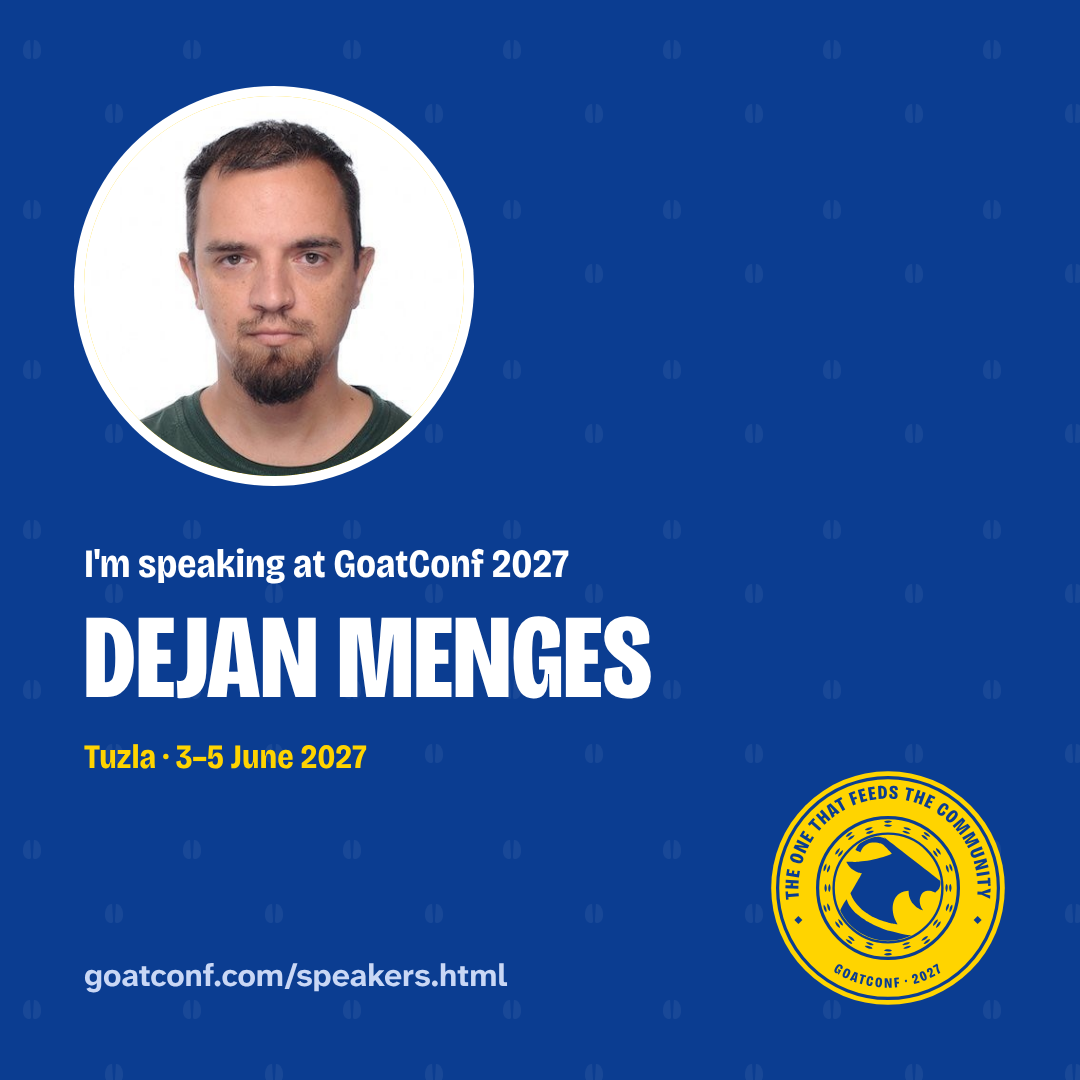
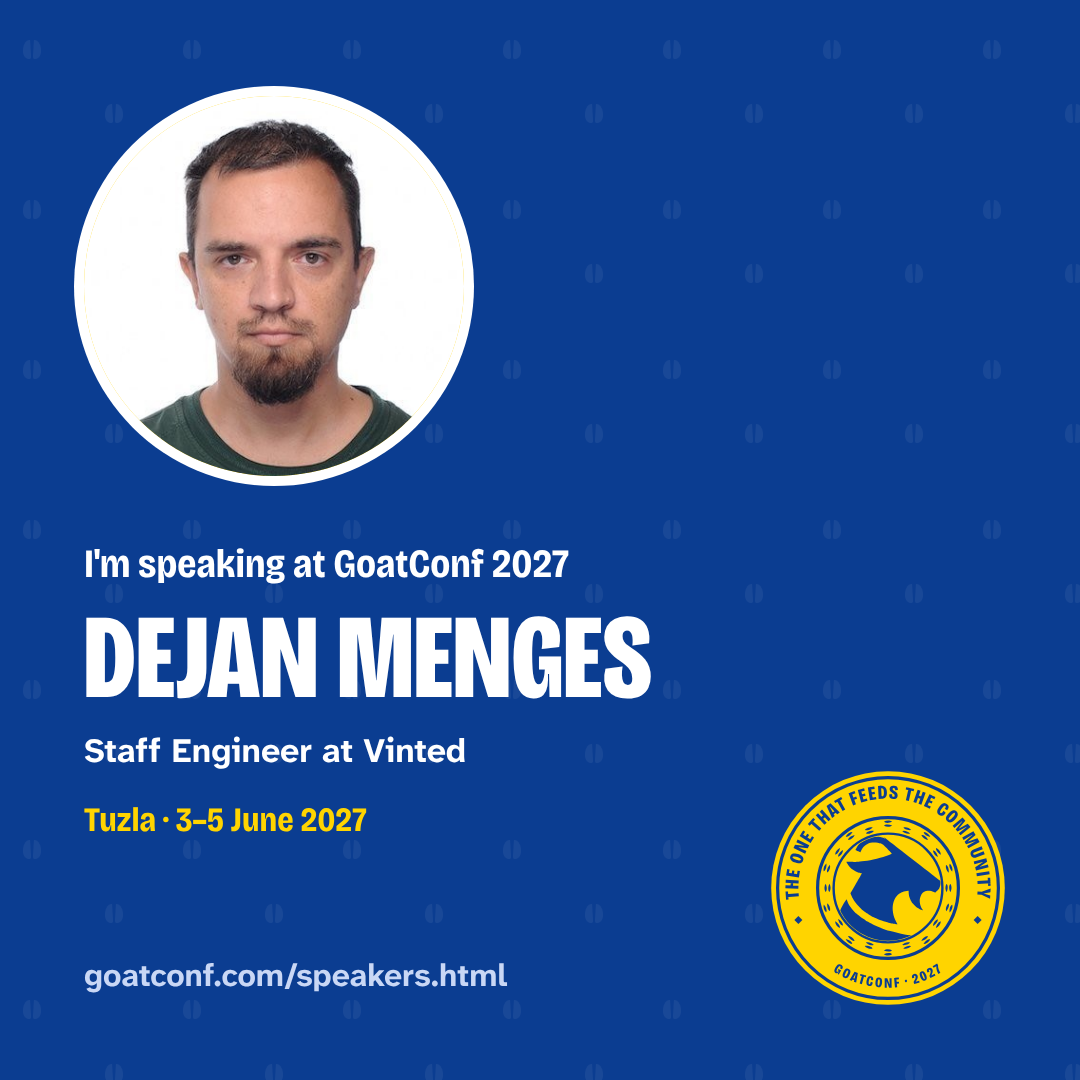
site: a speaker's role and employer show wherever their name does
The organiser asked whether the promo cards and the site show where a
speaker works and in what role. They did not. Speaker records now take
an optional one-line `role` (for example "Staff Engineer at Vinted"),
shown on the speaker's own page and its description, the speakers page
cards, the home page stickers, the "I'm speaking" cards, llms.txt, and
as jobTitle in the event data once the speaker has a session. Text
only: no employer logo, so an employer never reads as a supporter.

Dejan Menges's record gets his role from menges.dev, and his cards are
re-rendered.

Source: files/sources/conversations/2026-10-14--org--speaker-role-and-employer.md

Changed region(s): [[0.0611, 0.6722, 0.4278, 0.7944]]

diff --git a/files/site/index.html b/files/site/index.html
@@ -22,7 +22,7 @@
 <meta property="og:image:alt" content="GoatConf 2027, Tuzla, 3–5 June 2027, free. The GoatConf seal: the one that feeds the community.">
 <meta name="twitter:card" content="summary_large_image">
 <!-- /link preview -->
-<link rel="stylesheet" href="goatconf.css?v=c829bb0a">
+<link rel="stylesheet" href="goatconf.css?v=6c3f4502">
 <script>if(!matchMedia("(prefers-reduced-motion: reduce)").matches&&"IntersectionObserver"in window)document.documentElement.classList.add("js-peel")</script>
 <!-- event data -->
 <script type="application/ld+json">{"@context":"https://schema.org","@type":"Event","name":"GoatConf 2027","url":"https://goatconf.com/","description":"A free conference for people who build and sell software: engineers, designers, product people, founders, and the incurably curious dreamers and visionaries. Any programming language, any stack. An excuse to hang out with like-minded people and learn from folks sharing their current best. In Tuzla, Bosnia and Herzegovina, on 3–5 June 2027. One-hour talks, panels and workshops in every room of IPI Academy, then a day for the community.","startDate":"2027-06-03T09:45:00+02:00","endDate":"2027-06-05","eventStatus":"https://schema.org/EventScheduled","eventAttendanceMode":"https://schema.org/OfflineEventAttendanceMode","isAccessibleForFree":true,"image":["https://goatconf.com/share/og.png"],"location":{"@type":"Place","name":"IPI Academy (IPI Akademija Tuzla)","address":{"@type":"PostalAddress","streetAddress":"Kulina bana 2","postalCode":"75000","addressLocality":"Tuzla","addressCountry":"BA"},"geo":{"@type":"GeoCoordinates","latitude":44.5404,"longitude":18.6738}},"organizer":{"@type":"Person","name":"Muhamed Isabegović","url":"https://muhamed.at","email":"info@muhamed.at"},"offers":{"@type":"Offer","price":0,"priceCurrency":"EUR","availability":"https://schema.org/InStock","url":"https://luma.com/event/evt-dU4KbLhpIAm9Y9V"}}</script>
@@ -157,7 +157,7 @@
   <h2 class="band" id="speakers-title">Who is speaking</h2>
   <p class="copy copy--wide">The people giving the talks, panels and workshops so far. More are added as proposals are accepted.</p>
   <ul class="slots slots--mini">
-    <li><a class="sticker sticker--photo sticker--mini" href="speaker-dejan-menges.html" data-peel style="--tilt:-1.5deg"><span class="num">14</span><img src="img/speakers/dejan-menges.jpg" alt="" loading="lazy"><span class="sticker__name">Dejan Menges</span></a></li>
+    <li><a class="sticker sticker--photo sticker--mini" href="speaker-dejan-menges.html" data-peel style="--tilt:-1.5deg"><span class="num">14</span><img src="img/speakers/dejan-menges.jpg" alt="" loading="lazy"><span class="sticker__name">Dejan Menges<small class="sticker__role">Staff Engineer at Vinted</small></span></a></li>
   </ul>
   <p class="copy"><a class="go go--ink" href="speakers.html">Meet the speakers</a></p>
 </section>

diff --git a/files/site/speaker-dejan-menges.html b/files/site/speaker-dejan-menges.html
@@ -4,7 +4,7 @@
 <meta charset="utf-8">
 <meta name="viewport" content="width=device-width, initial-scale=1">
 <title>Dejan Menges: speaking at GoatConf 2027, Tuzla</title>
-<meta name="description" content="Dejan Menges speaks at GoatConf 2027 in Tuzla, 3–5 June 2027: a session at IPI Academy.">
+<meta name="description" content="Dejan Menges (Staff Engineer at Vinted) speaks at GoatConf 2027 in Tuzla, 3–5 June 2027: a session at IPI Academy.">
 <meta name="theme-color" content="#0b3d91">
 <link rel="canonical" href="https://goatconf.com/speaker-dejan-menges">
 <link rel="icon" href="favicon.svg" type="image/svg+xml">
@@ -13,7 +13,7 @@
 <meta property="og:type" content="website">
 <meta property="og:site_name" content="GoatConf">
 <meta property="og:title" content="Dejan Menges: speaking at GoatConf 2027, Tuzla">
-<meta property="og:description" content="Dejan Menges speaks at GoatConf 2027 in Tuzla, 3–5 June 2027: a session at IPI Academy.">
+<meta property="og:description" content="Dejan Menges (Staff Engineer at Vinted) speaks at GoatConf 2027 in Tuzla, 3–5 June 2027: a session at IPI Academy.">
 <meta property="og:url" content="https://goatconf.com/speaker-dejan-menges">
 <meta property="og:image" content="https://goatconf.com/share/og.png">
 <meta property="og:image:width" content="1200">
@@ -21,7 +21,7 @@
 <meta property="og:image:alt" content="GoatConf 2027, Tuzla, 3–5 June 2027, free. The GoatConf seal: the one that feeds the community.">
 <meta name="twitter:card" content="summary_large_image">
 <!-- /link preview -->
-<link rel="stylesheet" href="goatconf.css?v=c829bb0a">
+<link rel="stylesheet" href="goatconf.css?v=6c3f4502">
 <script>if(!matchMedia("(prefers-reduced-motion: reduce)").matches&&"IntersectionObserver"in window)document.documentElement.classList.add("js-peel")</script>
 </head>
 <body>
@@ -58,7 +58,7 @@
 <header class="page-head">
   <img class="page-head__photo page-head__photo--portrait" src="img/speakers/dejan-menges.jpg" width="800" height="800" alt="Dejan Menges" decoding="async">
   <h1 class="sign">Dejan Menges</h1>
-  <p class="lede">Speaking at GoatConf 2027 in Tuzla.</p>
+  <p class="lede"><span class="lede__role">Staff Engineer at Vinted</span>Speaking at GoatConf 2027 in Tuzla.</p>
 </header>
 <main id="main">
 <section class="album-page wrap speaker-page" aria-labelledby="h-about">

diff --git a/files/site/goatconf.css b/files/site/goatconf.css
@@ -362,6 +362,7 @@ main.prose .cta:last-child { margin: 2.4rem 0 0; }
 .sticker--mini { display: block; text-decoration: none; }
 .sticker--mini img, .sticker--mini .speaker__goat { aspect-ratio: 1; width: 100%; object-fit: cover; border-radius: 0.35rem 0.35rem 0 0; }
 .sticker__name { display: block; padding: 0.45rem 0.6rem 0.5rem; border-radius: 0 0 0.35rem 0.35rem; background: var(--album); color: var(--page); font-family: var(--display); font-weight: 800; font-stretch: 80%; text-transform: uppercase; font-size: 1.05rem; line-height: 1; }
+.sticker__role { display: block; margin-top: 0.3rem; font-family: var(--text); font-weight: 600; font-stretch: 100%; text-transform: none; font-size: 0.78rem; line-height: 1.25; opacity: 0.9; }
 .money-supporters { margin-top: 2.2rem; }
 .slots--supporters-home { grid-template-columns: repeat(auto-fill, minmax(min(100%, 12rem), 1fr)); list-style: none; margin-bottom: 1.2rem; }
 .supporter-chip { display: grid; gap: 0.5rem; padding: 0.9rem; border-radius: 0.6rem; background: var(--page-print); text-decoration: none; color: var(--ink-soft); }
@@ -438,6 +439,8 @@ main.prose .cta:last-child { margin: 2.4rem 0 0; }
 .speaker__link { display: flex; flex-direction: column; gap: 0.5rem; height: 100%; text-decoration: none; color: var(--ink); }
 .speaker__link:hover .speaker__photo figcaption, .speaker__link:focus-visible .speaker__photo figcaption { background: var(--album-night); }
 .speaker__first { display: block; font-size: 0.88rem; line-height: 1.35; color: var(--ink); }
+.speaker__role { display: block; margin-bottom: 0.2rem; font-size: 0.85rem; font-weight: 700; line-height: 1.3; color: var(--ink-soft); }
+.lede__role { display: block; margin-bottom: 0.35rem; color: var(--page); }
 .speaker__more { display: block; margin-top: 0.15rem; font-size: 0.8rem; color: var(--ink-soft); }
 .speaker__link .speaker__travel { display: flex; align-items: center; gap: 0.45rem; margin-top: 0.4rem; font-size: 0.8rem; color: var(--ink-soft); }
 .speaker__link .speaker__travel img { width: 2.6rem; height: 1.6rem; object-fit: contain; }

diff --git a/files/site/speakers.html b/files/site/speakers.html
@@ -21,7 +21,7 @@
 <meta property="og:image:alt" content="GoatConf 2027, Tuzla, 3–5 June 2027, free. The GoatConf seal: the one that feeds the community.">
 <meta name="twitter:card" content="summary_large_image">
 <!-- /link preview -->
-<link rel="stylesheet" href="goatconf.css?v=c829bb0a">
+<link rel="stylesheet" href="goatconf.css?v=6c3f4502">
 <script>if(!matchMedia("(prefers-reduced-motion: reduce)").matches&&"IntersectionObserver"in window)document.documentElement.classList.add("js-peel")</script>
 </head>
 <body>
@@ -69,7 +69,7 @@
     <a class="speaker__link" href="speaker-dejan-menges.html">
     <span class="num">1</span>
     <figure class="speaker__photo"><img src="img/speakers/dejan-menges.jpg" alt="" loading="lazy"><figcaption>Dejan Menges</figcaption></figure>
-    <span class="speaker__body"></span>
+    <span class="speaker__body"><span class="speaker__role">Staff Engineer at Vinted</span></span>
     </a>
   </li>
 </ul>

diff --git a/files/site/program.html b/files/site/program.html
@@ -21,7 +21,7 @@
 <meta property="og:image:alt" content="GoatConf 2027, Tuzla, 3–5 June 2027, free. The GoatConf seal: the one that feeds the community.">
 <meta name="twitter:card" content="summary_large_image">
 <!-- /link preview -->
-<link rel="stylesheet" href="goatconf.css?v=c829bb0a">
+<link rel="stylesheet" href="goatconf.css?v=6c3f4502">
 <script>if(!matchMedia("(prefers-reduced-motion: reduce)").matches&&"IntersectionObserver"in window)document.documentElement.classList.add("js-peel")</script>
 </head>
 <body>

diff --git a/files/site/supporters.html b/files/site/supporters.html
@@ -21,7 +21,7 @@
 <meta property="og:image:alt" content="GoatConf 2027, Tuzla, 3–5 June 2027, free. The GoatConf seal: the one that feeds the community.">
 <meta name="twitter:card" content="summary_large_image">
 <!-- /link preview -->
-<link rel="stylesheet" href="goatconf.css?v=c829bb0a">
+<link rel="stylesheet" href="goatconf.css?v=6c3f4502">
 <script>if(!matchMedia("(prefers-reduced-motion: reduce)").matches&&"IntersectionObserver"in window)document.documentElement.classList.add("js-peel")</script>
 </head>
 <body>

diff --git a/files/site/access.html b/files/site/access.html
@@ -21,7 +21,7 @@
 <meta property="og:image:alt" content="GoatConf 2027, Tuzla, 3–5 June 2027, free. The GoatConf seal: the one that feeds the community.">
 <meta name="twitter:card" content="summary_large_image">
 <!-- /link preview -->
-<link rel="stylesheet" href="goatconf.css?v=c829bb0a">
+<link rel="stylesheet" href="goatconf.css?v=6c3f4502">
 </head>
 <body>
 <svg width="0" height="0" style="position:absolute" aria-hidden="true" focusable="false"><defs><symbol id="goat" viewBox="0 0 124 100">

diff --git a/files/site/add.html b/files/site/add.html
@@ -21,7 +21,7 @@
 <meta property="og:image:alt" content="GoatConf 2027, Tuzla, 3–5 June 2027, free. The GoatConf seal: the one that feeds the community.">
 <meta name="twitter:card" content="summary_large_image">
 <!-- /link preview -->
-<link rel="stylesheet" href="goatconf.css?v=c829bb0a">
+<link rel="stylesheet" href="goatconf.css?v=6c3f4502">
 </head>
 <body>
 <svg width="0" height="0" style="position:absolute" aria-hidden="true" focusable="false"><defs><symbol id="goat" viewBox="0 0 124 100">

diff --git a/files/site/brand.html b/files/site/brand.html
@@ -21,7 +21,7 @@
 <meta property="og:image:alt" content="GoatConf 2027, Tuzla, 3–5 June 2027, free. The GoatConf seal: the one that feeds the community.">
 <meta name="twitter:card" content="summary_large_image">
 <!-- /link preview -->
-<link rel="stylesheet" href="goatconf.css?v=c829bb0a">
+<link rel="stylesheet" href="goatconf.css?v=6c3f4502">
 </head>
 <body>
 <svg width="0" height="0" style="position:absolute" aria-hidden="true" focusable="false"><defs><symbol id="goat" viewBox="0 0 124 100">

diff --git a/files/site/charter.html b/files/site/charter.html
@@ -21,7 +21,7 @@
 <meta property="og:image:alt" content="GoatConf 2027, Tuzla, 3–5 June 2027, free. The GoatConf seal: the one that feeds the community.">
 <meta name="twitter:card" content="summary_large_image">
 <!-- /link preview -->
-<link rel="stylesheet" href="goatconf.css?v=c829bb0a">
+<link rel="stylesheet" href="goatconf.css?v=6c3f4502">
 </head>
 <body>
 <svg width="0" height="0" style="position:absolute" aria-hidden="true" focusable="false"><defs><symbol id="goat" viewBox="0 0 124 100">

diff --git a/files/site/code-of-conduct.html b/files/site/code-of-conduct.html
@@ -21,7 +21,7 @@
 <meta property="og:image:alt" content="GoatConf 2027, Tuzla, 3–5 June 2027, free. The GoatConf seal: the one that feeds the community.">
 <meta name="twitter:card" content="summary_large_image">
 <!-- /link preview -->
-<link rel="stylesheet" href="goatconf.css?v=c829bb0a">
+<link rel="stylesheet" href="goatconf.css?v=6c3f4502">
 </head>
 <body>
 <svg width="0" height="0" style="position:absolute" aria-hidden="true" focusable="false"><defs><symbol id="goat" viewBox="0 0 124 100">

diff --git a/files/site/contact.html b/files/site/contact.html
@@ -21,7 +21,7 @@
 <meta property="og:image:alt" content="GoatConf 2027, Tuzla, 3–5 June 2027, free. The GoatConf seal: the one that feeds the community.">
 <meta name="twitter:card" content="summary_large_image">
 <!-- /link preview -->
-<link rel="stylesheet" href="goatconf.css?v=c829bb0a">
+<link rel="stylesheet" href="goatconf.css?v=6c3f4502">
 </head>
 <body>
 <svg width="0" height="0" style="position:absolute" aria-hidden="true" focusable="false"><defs><symbol id="goat" viewBox="0 0 124 100">
